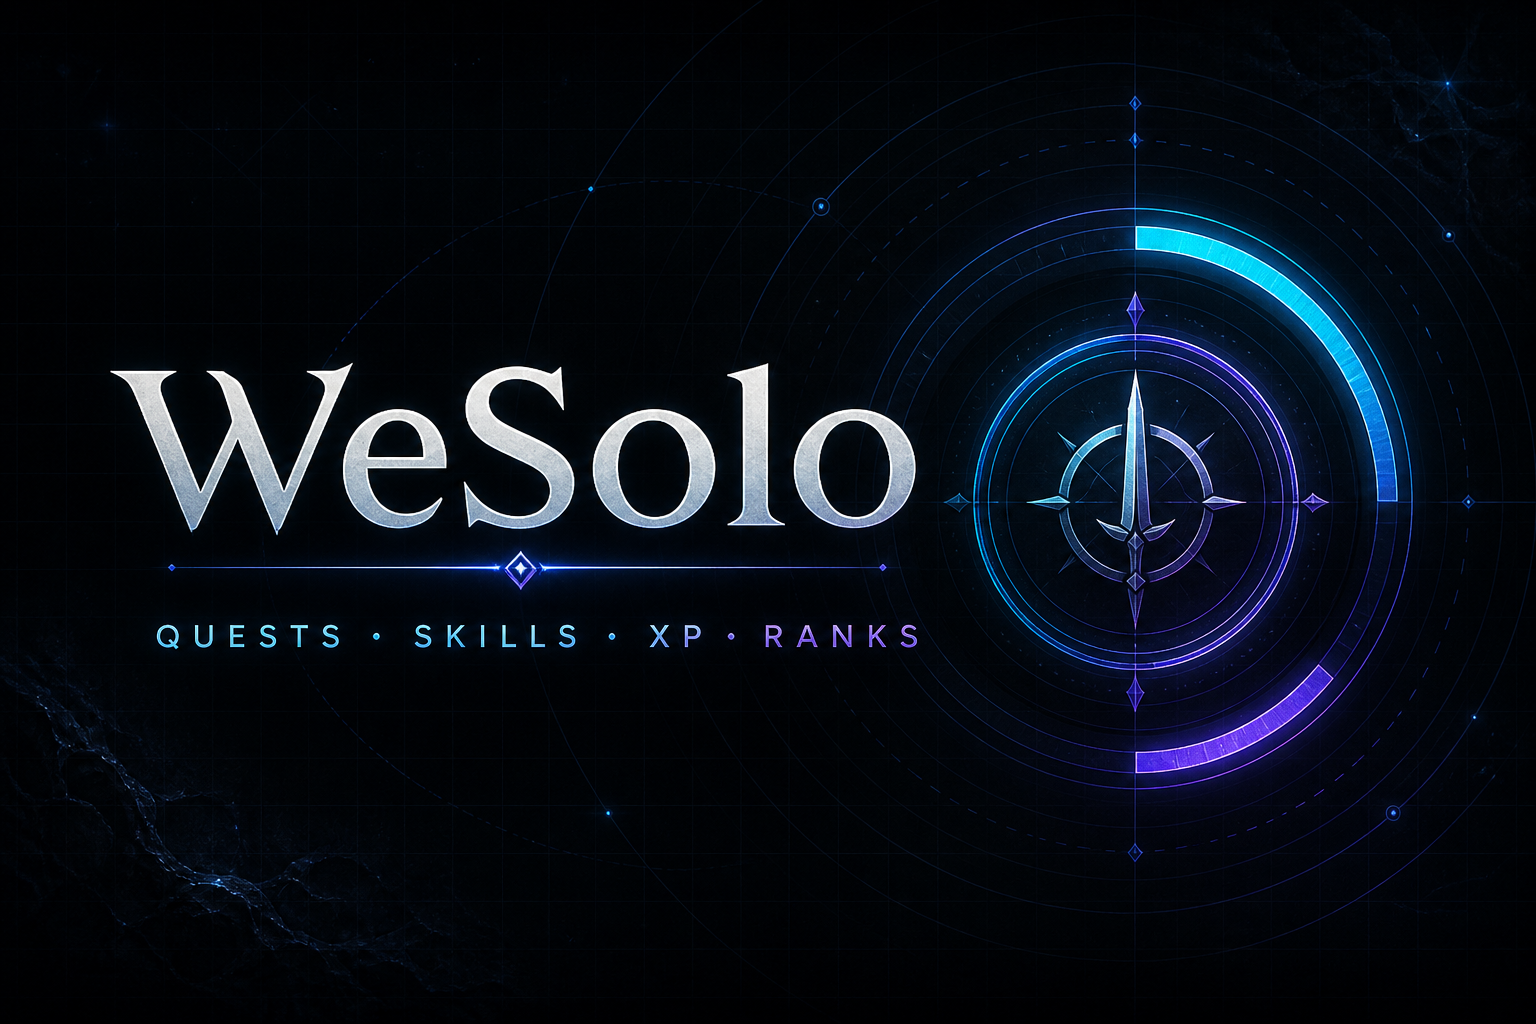
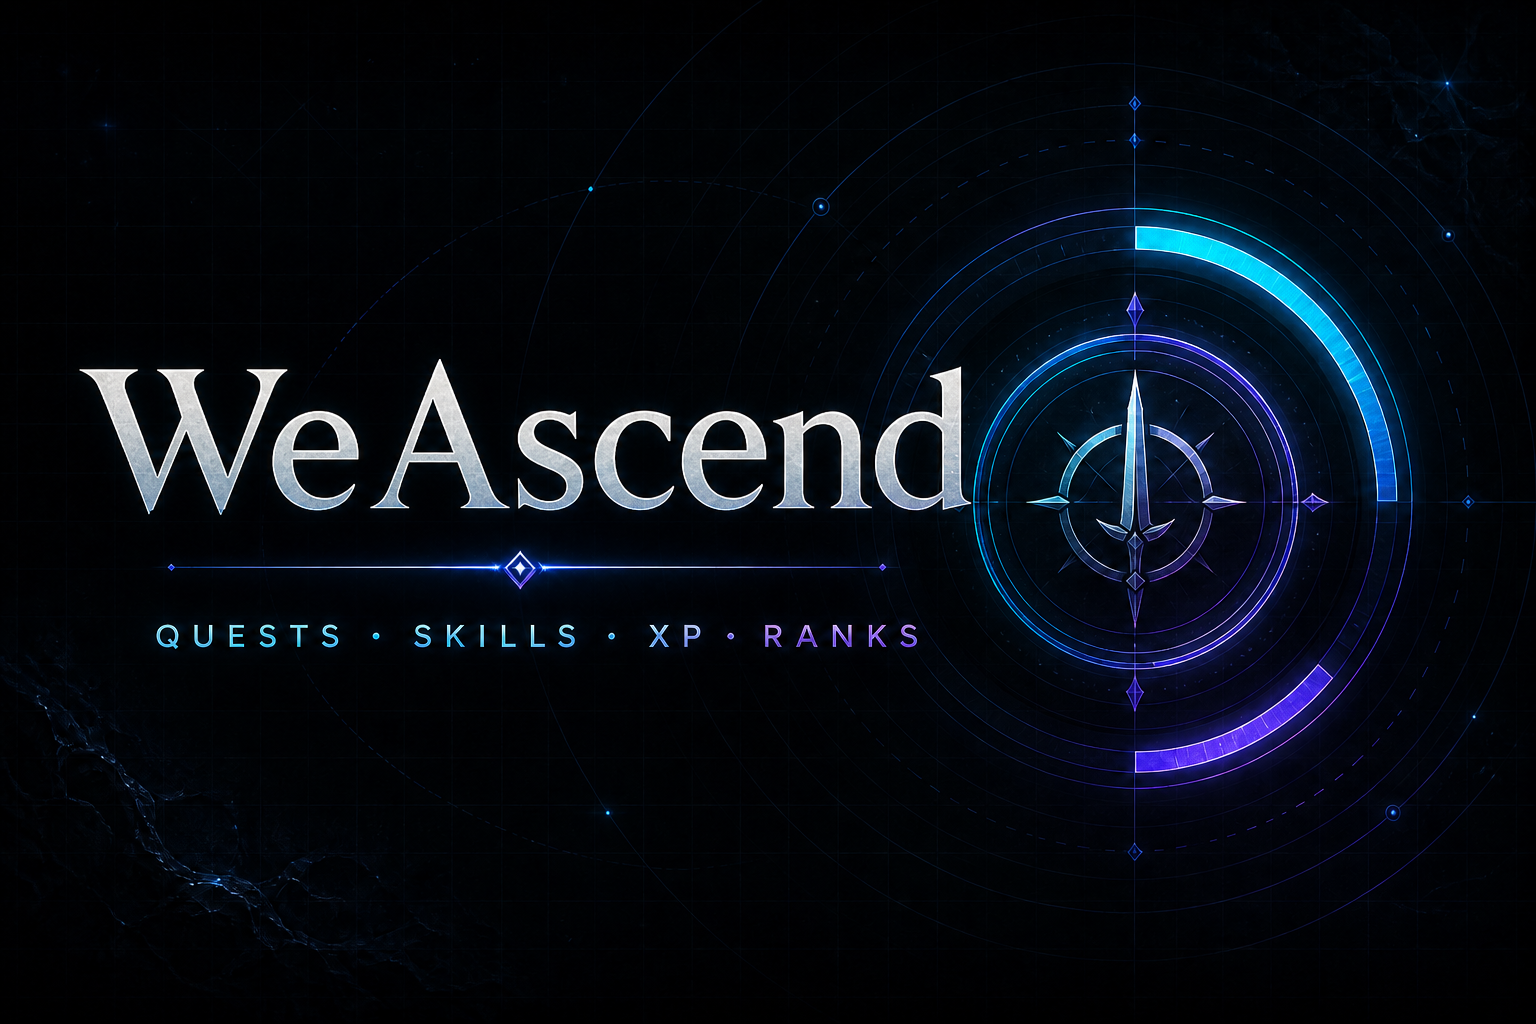
Rebrand app as WeAscend

diff --git a/app/SoloApp.tsx b/app/SoloApp.tsx
@@ -622,7 +622,7 @@ export default function SoloApp() {
     const blob = new Blob([JSON.stringify(state, null, 2)], { type: "application/json" });
     const link = document.createElement("a");
     link.href = URL.createObjectURL(blob);
-    link.download = `wesolo-backup-${today}.json`;
+    link.download = `weascend-backup-${today}.json`;
     link.click();
     URL.revokeObjectURL(link.href);
     setToast(t("backup.downloaded"));
@@ -855,7 +855,7 @@ export default function SoloApp() {
     <header className="screen-header"><div><p>{t("settings.configuration")}</p><h1>{t("settings.title")}</h1><span>{t("settings.subtitle")}</span></div></header>
     <div className="settings-grid">
       <section className="settings-card language-card"><header><i>文</i><div><h2>{t("settings.language")}</h2><p>{t("settings.languageText")}</p></div></header><div className="language-switch" role="group" aria-label={t("settings.language")}><button className={language === "en" ? "active" : ""} onClick={() => chooseLanguage("en")}>{t("settings.english")}</button><button className={language === "sr" ? "active" : ""} onClick={() => chooseLanguage("sr")}>{t("settings.serbian")}</button></div></section>
-      <section className="settings-card cloud-card"><header><i>↻</i><div><h2>{t("settings.cloud")}</h2><p>{t("settings.cloudText")}</p></div></header><div className="cloud-status-row"><span className={`sync-dot ${syncMode}`} /><div><strong>{syncMode === "online" ? t("settings.synced") : syncMode === "syncing" ? t("settings.saving") : syncMode === "offline" ? t("settings.disconnected") : t("settings.notConnected")}</strong><small>{cloudUser?.email ?? (syncMode === "local" ? t("settings.localMode") : "WeSolo Cloud")}</small></div>{cloudUser && <a href="/signout-with-chatgpt?return_to=%2F">{t("settings.signOut")}</a>}</div></section>
+      <section className="settings-card cloud-card"><header><i>↻</i><div><h2>{t("settings.cloud")}</h2><p>{t("settings.cloudText")}</p></div></header><div className="cloud-status-row"><span className={`sync-dot ${syncMode}`} /><div><strong>{syncMode === "online" ? t("settings.synced") : syncMode === "syncing" ? t("settings.saving") : syncMode === "offline" ? t("settings.disconnected") : t("settings.notConnected")}</strong><small>{cloudUser?.email ?? (syncMode === "local" ? t("settings.localMode") : "WeAscend Cloud")}</small></div>{cloudUser && <a href="/signout-with-chatgpt?return_to=%2F">{t("settings.signOut")}</a>}</div></section>
       <section className="settings-card"><header><i>ƒ</i><div><h2>{t("settings.formula")}</h2><p>{t("settings.formulaText")}</p></div></header><div className="settings-row"><Field label={t("settings.baseXp")}><input type="number" min="1" value={state.settings.baseXp} onChange={e => updateState(s => ({ ...s, settings: { ...s.settings, baseXp: Math.max(1, Number(e.target.value)) } }))} /></Field><Field label={t("settings.growth")}><input type="number" min="0" value={state.settings.levelGrowth} onChange={e => updateState(s => ({ ...s, settings: { ...s.settings, levelGrowth: Math.max(0, Number(e.target.value)) } }))} /></Field></div></section>
       <section className="settings-card"><header><i>R</i><div><h2>{t("settings.ranks")}</h2><p>{t("settings.ranksText")}</p></div></header><div className="rank-settings">{state.settings.ranks.map((rank, index) => <Field label={`${rank.name}-Rank`} key={rank.name}><input type="number" min="1" value={rank.minLevel} onChange={e => updateState(s => ({ ...s, settings: { ...s.settings, ranks: s.settings.ranks.map((r, i) => i === index ? { ...r, minLevel: Math.max(1, Number(e.target.value)) } : r) } }))} /></Field>)}</div></section>
       <section className="settings-card"><header><i>◈</i><div><h2>{t("settings.rules")}</h2><p>{t("settings.rulesText")}</p></div></header><label className="toggle-row"><div><strong>{t("settings.dailyRepeat")}</strong><span>{t("settings.dailyRepeatText")}</span></div><input type="checkbox" checked={state.settings.dailyRepeatLimit} onChange={e => updateState(s => ({ ...s, settings: { ...s.settings, dailyRepeatLimit: e.target.checked } }))} /></label><label className="toggle-row"><div><strong>{t("settings.animations")}</strong><span>{t("settings.animationsText")}</span></div><input type="checkbox" checked={state.settings.animations} onChange={e => updateState(s => ({ ...s, settings: { ...s.settings, animations: e.target.checked } }))} /></label></section>
@@ -868,13 +868,13 @@ export default function SoloApp() {
     {readOnly && <div className={`sync-banner ${syncMode}`}><span>{t("sync.banner")} <strong>READ-ONLY</strong></span><button onClick={() => setBootstrapAttempt(attempt => attempt + 1)}>{t("sync.retry")}</button></div>}
     {syncMode === "syncing" && <div className="sync-banner syncing">{t("sync.saving")}</div>}
     <aside className="sidebar">
-      <button className="brand" onClick={() => setView("dashboard")}><span>W</span><div><strong>WeSolo</strong><small>PERSONAL PROGRESS SYSTEM</small></div></button>
+      <button className="brand" onClick={() => setView("dashboard")}><span>W</span><div><strong>WeAscend</strong><small>PERSONAL PROGRESS SYSTEM</small></div></button>
       <nav>{views.map(item => <button key={item.id} className={view === item.id ? "active" : ""} onClick={() => setView(item.id)}><i>{item.icon}</i><span>{t(item.labelKey)}</span>{item.id === "quests" && activeQuests.length > 0 && <b>{activeQuests.length}</b>}</button>)}</nav>
       <div className="sidebar-profile"><div>{metrics.rank}</div><span><strong>{t("profile.hunter")}</strong><small>{t("profile.level")} {metrics.progress.level} · {metrics.xp} XP</small></span></div>
       <p className={`local-status ${syncMode}`}><i /> {syncMode === "online" ? t("sync.cloudSynced") : syncMode === "syncing" ? t("sync.cloudSyncing") : t("sync.cloudReadOnly")}</p>
     </aside>
     <main className="content">
-      <div className="mobile-top"><button className="brand" onClick={() => setView("dashboard")}><span>W</span><strong>WeSolo</strong></button><button onClick={beginNewQuest}>＋</button></div>
+      <div className="mobile-top"><button className="brand" onClick={() => setView("dashboard")}><span>W</span><strong>WeAscend</strong></button><button onClick={beginNewQuest}>＋</button></div>
       {view === "dashboard" && Dashboard()}
       {view === "quests" && Quests()}
       {view === "growth" && Growth()}

diff --git a/app/globals.css b/app/globals.css
@@ -16,14 +16,14 @@
 }
 
 * { box-sizing: border-box; }
-html { background: var(--bg); color-scheme: dark; }
-body { margin: 0; background: var(--bg); color: var(--text); font-family: Inter, "Segoe UI", Arial, sans-serif; font-size: 14px; }
+html { background: var(--bg); color-scheme: dark; max-width: 100%; overflow-x: hidden; }
+body { margin: 0; max-width: 100%; overflow-x: hidden; background: var(--bg); color: var(--text); font-family: Inter, "Segoe UI", Arial, sans-serif; font-size: 14px; }
 button, input, select, textarea { font: inherit; }
 button { color: inherit; cursor: pointer; }
 button:focus-visible, input:focus-visible, select:focus-visible, textarea:focus-visible { outline: 2px solid var(--violet); outline-offset: 2px; }
 h1, h2, h3, p { margin-top: 0; }
 
-.app-shell { min-height: 100vh; background: radial-gradient(circle at 70% -20%, rgba(85, 56, 178, .18), transparent 32%), var(--bg); }
+.app-shell { min-height: 100vh; max-width: 100%; overflow-x: hidden; background: radial-gradient(circle at 70% -20%, rgba(85, 56, 178, .18), transparent 32%), var(--bg); }
 .sidebar { width: 232px; position: fixed; inset: 0 auto 0 0; z-index: 20; background: rgba(8, 9, 20, .96); border-right: 1px solid var(--line); padding: 28px 18px 22px; display: flex; flex-direction: column; }
 .brand { background: transparent; border: 0; display: flex; align-items: center; gap: 11px; padding: 0 8px; text-align: left; }
 .brand > span { width: 34px; height: 34px; display: grid; place-items: center; border: 1px solid var(--violet); color: var(--violet-2); transform: rotate(45deg); font-family: Georgia, serif; font-size: 21px; font-weight: 700; box-shadow: 0 0 20px rgba(134, 107, 255, .18); }
@@ -207,7 +207,7 @@ button.ghost { width: 100%; background: transparent; border: 1px dashed #303650;
 @media (max-width: 720px) {
   body { padding-bottom: 65px; }.sidebar { display:none; }.content { margin-left:0; }.mobile-top { height: 58px; position: sticky; top:0; z-index:30; display:flex; justify-content:space-between; align-items:center; padding:0 18px; background:rgba(7,8,18,.93); backdrop-filter:blur(10px); border-bottom:1px solid var(--line); }.mobile-top .brand { padding:0; }.mobile-top .brand > span { width:26px; height:26px; font-size:16px; }.mobile-top > button:last-child { width:34px; height:34px; background:#251d50; border:1px solid #5f4ac0; color:var(--violet-2); }
   .bottom-nav { position:fixed; z-index:50; bottom:0; inset-inline:0; height:65px; display:grid; grid-template-columns:repeat(6,minmax(0,1fr)); background:rgba(9,10,20,.97); backdrop-filter:blur(12px); border-top:1px solid var(--line); }.bottom-nav button { min-width:0; padding:4px 1px; border:0; background:transparent; color:#6f7691; display:flex; flex-direction:column; align-items:center; justify-content:center; gap:4px; font-size:7px; }.bottom-nav button span { max-width:100%; overflow:hidden; text-overflow:ellipsis; white-space:nowrap; }.bottom-nav i {font-style:normal;font-size:15px}.bottom-nav button.active { color:var(--violet-2); background:linear-gradient(0deg,rgba(134,107,255,.13),transparent); }
-  .screen { padding: 22px 16px 50px; }.hero { min-height:410px; align-items:flex-start; }.hero-copy { padding-top:35px; }.hero h1 { font-size:46px; }.system-label { margin-bottom:30px; }.rank-orbit { position:absolute; width:180px; height:180px; right:-35px; bottom:5px; margin:0; opacity:.75; }.ring-two { inset:20px; }.rank-core { width:110px;height:110px}.rank-core strong { font-size:44px; }.xp-panel { width:94%; margin-top:-12px; }.xp-panel p span { display:none; }
+  .screen { padding: 22px 16px 50px; max-width:100%; overflow-x:hidden; }.hero { min-height:410px; width:100%; max-width:100%; align-items:flex-start; }.hero-copy { padding-top:35px; max-width:100%; }.hero h1 { font-size:46px; }.system-label { margin-bottom:30px; }.rank-orbit { position:absolute; width:min(42vw,160px); height:min(42vw,160px); right:0; bottom:10px; margin:0; opacity:.75; }.ring-two { inset:12%; }.rank-core { width:62%;height:62%}.rank-core strong { font-size:clamp(34px,11vw,44px); }.xp-panel { width:94%; margin-top:-12px; }.xp-panel p span { display:none; }
   .dashboard-grid,.today-list .quest-list,.achievement-grid,.attribute-grid,.stats-top,.settings-grid { grid-template-columns:1fr; }.today-list .quest-list { display:grid; }.quest-card { align-items:stretch; }.quest-card-main { padding:14px 12px; }.quest-card h3 { font-size:15px; }.quest-actions { padding:8px; }.quest-footer { flex-wrap:wrap;gap:8px}.achievement-grid .empty { min-height:110px; }
   .screen-header { align-items:flex-start; gap:17px; }.screen-header h1 { font-size:35px; }.screen-header > button { padding:10px 12px; font-size:10px; }.planner-header {padding:14px}.planner-header h2 {font-size:17px}.calendar-grid {padding:6px;gap:3px}.calendar-weekdays {padding:0 6px}.calendar-grid > button {min-height:48px;padding:6px}.calendar-grid > button > span {font-size:12px}.calendar-grid > button b {right:4px;top:4px;min-width:14px;height:14px;font-size:7px}.calendar-grid > button i {left:6px;bottom:6px}.calendar-grid > button em {width:4px;height:4px}.planner > footer {padding:12px 14px}.planner > footer strong {font-size:9px}.filters { grid-template-columns:1fr 1fr; }.filters input { grid-column:1/-1; }.day-agenda-title {align-items:flex-start;gap:10px}.day-agenda-title h2 {font-size:16px}.quest-list.full .quest-card { flex-wrap:wrap; }.quest-list.full .quest-actions { width:100%; min-width:0; border-left:0;border-top:1px solid var(--line); flex-direction:row; overflow:auto;justify-content:flex-start}.quest-list.full .quest-actions button { white-space:nowrap; }
   .boss-card { grid-template-columns:92px 1fr; }.boss-visual { min-height:300px; }.boss-visual strong { font-size:40px; }.boss-content { padding:16px 13px; }.boss-content h2 {font-size:20px}.boss-content footer { align-items:flex-start;gap:10px;flex-direction:column}.boss-content footer div { display:flex; }.boss-content footer button { margin-left:0;margin-right:5px; }

diff --git a/app/i18n.ts b/app/i18n.ts
@@ -21,13 +21,13 @@ const en = {
   "common.general": "General",
   "common.deletedQuest": "Deleted quest",
   "common.required": "This field is required.",
-  "auth.cloud": "WESOLO CLOUD",
+  "auth.cloud": "WEASCEND CLOUD",
   "auth.title": "Sign-in required",
   "auth.text": "Sign in with the same ChatGPT account on your phone and computer to use the same data on both devices.",
   "auth.action": "Sign in with ChatGPT",
   "auth.deniedCloud": "OWNER-LOCKED SYSTEM",
   "auth.deniedTitle": "This system serves its owner",
-  "auth.deniedText": "You do not have access to this WeSolo system.",
+  "auth.deniedText": "You do not have access to this WeAscend system.",
   "auth.deniedAction": "Sign out",
   "loading": "Connecting system…",
   "sync.conflict": "Another device had a newer version. The latest data has been loaded.",
@@ -110,7 +110,7 @@ const en = {
   "backup.replaceTitle": "Replace all data?",
   "backup.replaceText": "A valid backup is ready. Current data will be replaced and synchronized.",
   "backup.restored": "Backup restored successfully.",
-  "backup.invalid": "This JSON file is not a valid WeSolo backup.",
+  "backup.invalid": "This JSON file is not a valid WeAscend backup.",
   "ai.notConfigured": "DeepSeek is not configured on the server.",
   "ai.authFailed": "The DeepSeek API key is invalid.",
   "ai.balanceEmpty": "The DeepSeek account has insufficient credit.",
@@ -329,13 +329,13 @@ const sr: Record<TranslationKey, string> = {
   "common.general": "Opšte",
   "common.deletedQuest": "Obrisan quest",
   "common.required": "Ovo polje je obavezno.",
-  "auth.cloud": "WESOLO CLOUD",
+  "auth.cloud": "WEASCEND CLOUD",
   "auth.title": "Prijava je potrebna",
   "auth.text": "Prijavi se istim ChatGPT nalogom na telefonu i računaru da bi oba uređaja koristila iste podatke.",
   "auth.action": "Prijavi se preko ChatGPT-a",
   "auth.deniedCloud": "SISTEM ZAKLJUČAN ZA VLASNIKA",
   "auth.deniedTitle": "Sistem služi vlasnika",
-  "auth.deniedText": "Nemaš pristup ovom WeSolo sistemu.",
+  "auth.deniedText": "Nemaš pristup ovom WeAscend sistemu.",
   "auth.deniedAction": "Odjavi se",
   "loading": "Povezujem sistem…",
   "sync.conflict": "Drugi uređaj je imao noviju verziju. Učitani su najnoviji podaci.",
@@ -418,7 +418,7 @@ const sr: Record<TranslationKey, string> = {
   "backup.replaceTitle": "Zameniti sve podatke?",
   "backup.replaceText": "Validan backup je spreman. Trenutni podaci biće zamenjeni i sinhronizovani.",
   "backup.restored": "Backup je uspešno vraćen.",
-  "backup.invalid": "JSON nije validan WeSolo backup.",
+  "backup.invalid": "JSON nije validan WeAscend backup.",
   "ai.notConfigured": "DeepSeek nije konfigurisan na serveru.",
   "ai.authFailed": "DeepSeek API ključ nije ispravan.",
   "ai.balanceEmpty": "DeepSeek nalog nema dovoljno kredita.",

diff --git a/app/layout.tsx b/app/layout.tsx
@@ -2,7 +2,7 @@ import type { Metadata, Viewport } from "next";
 import "./globals.css";
 
 export const metadata: Metadata = {
-  title: "WeSolo — Personal Progress System",
+  title: "WeAscend — Personal Progress System",
   description: "Quests, skills, XP, ranks, and focused personal progress — synchronized across your devices.",
   manifest: "/manifest.webmanifest",
   icons: {
@@ -13,14 +13,14 @@ export const metadata: Metadata = {
     apple: [{ url: "/icons/wesolo-192.png", sizes: "192x192", type: "image/png" }],
   },
   openGraph: {
-    title: "WeSolo — Personal Progress System",
+    title: "WeAscend — Personal Progress System",
     description: "Quests · Skills · XP · Ranks. Your focused personal progress system.",
     type: "website",
-    images: [{ url: "/og.png", width: 1536, height: 1024, alt: "WeSolo Personal Progress System" }],
+    images: [{ url: "/og.png", width: 1536, height: 1024, alt: "WeAscend Personal Progress System" }],
   },
   twitter: {
     card: "summary_large_image",
-    title: "WeSolo — Personal Progress System",
+    title: "WeAscend — Personal Progress System",
     description: "Quests · Skills · XP · Ranks.",
     images: ["/og.png"],
   },

diff --git a/tests/domain.test.ts b/tests/domain.test.ts
@@ -122,7 +122,7 @@ test("English is the primary UI language and Serbian translations interpolate va
   assert.equal(translate("sr", "dashboard.question2"), "sledeća misija?");
   assert.equal(translate("sr", "dashboard.untilLevel", { xp: 80, level: 2 }), "80 XP do Levela 2");
   assert.equal(translate("en", "auth.deniedTitle"), "This system serves its owner");
-  assert.equal(translate("sr", "auth.deniedText"), "Nemaš pristup ovom WeSolo sistemu.");
+  assert.equal(translate("sr", "auth.deniedText"), "Nemaš pristup ovom WeAscend sistemu.");
 });
 
 test("owner allowlist distinguishes missing, wrong and authorized accounts", () => {

diff --git a/server/mongo.ts b/server/mongo.ts
@@ -21,7 +21,7 @@ async function createClient() {
   const uri = connectionUri();
   const { MongoClient: RuntimeMongoClient, ServerApiVersion } = await import("mongodb");
   const client = new RuntimeMongoClient(uri, {
-    appName: "wesolo",
+    appName: "weascend",
     maxPoolSize: 1,
     minPoolSize: 0,
     serverSelectionTimeoutMS: 5_000,

diff --git a/public/sw.js b/public/sw.js
@@ -1,4 +1,4 @@
-const CACHE = "wesolo-shell-v4";
+const CACHE = "weascend-shell-v5";
 self.addEventListener("install", event => {
   event.waitUntil(caches.open(CACHE).then(cache => cache.addAll([
     "/",

diff --git a/README.md b/README.md
@@ -1,8 +1,8 @@
-# WeSolo — Personal Progress System
+# WeAscend — Personal Progress System
 
 Cloud-synced PWA za lični napredak inspirisana „Solo Leveling“ sistemom. Engleski je podrazumevani jezik, a srpski se bira u Settings. Telefon i računar koriste isti MongoDB Atlas zapis, dok IndexedDB čuva poslednju potvrđenu verziju za pregled kada cloud nije dostupan.
 
-Produkcija: [WeSolo](https://ascend-solo-progress.stefanovic000.chatgpt.site)
+Produkcija: [WeAscend](https://ascend-solo-progress.stefanovic000.chatgpt.site)
 
 ## Trenutno ponašanje
 
